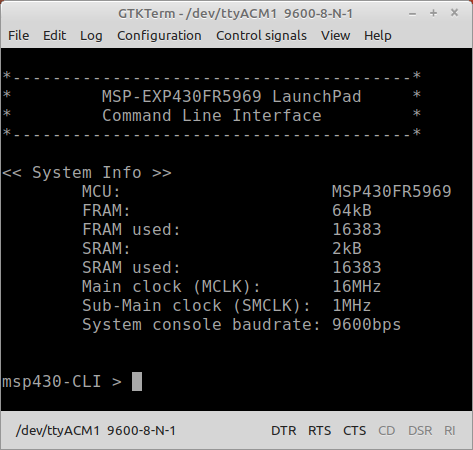
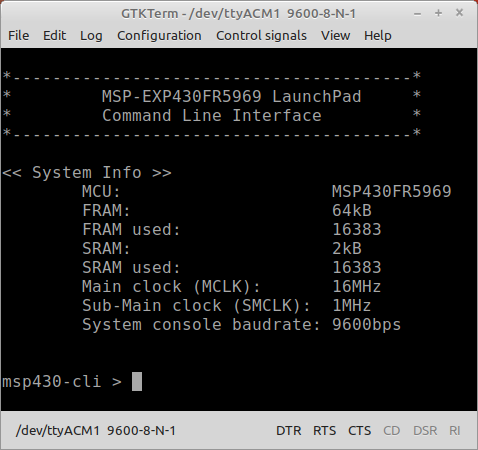
minor change

diff --git a/main/main.c b/main/main.c
@@ -118,7 +118,7 @@ int main(void)
                 }
             }
 
-            printf("\r\nmsp430-CLI > ");
+            printf("\r\nmsp430-cli > ");
 
             /* Reset receive buffer and flag*/
             memset(parameterString, '\0', parameterLength + 1);
@@ -171,7 +171,7 @@ static void startup_cli(void)
     printf("\tMain clock (MCLK):       16MHz\r\n");
     printf("\tSub-Main clock (SMCLK):  1MHz\r\n");
     printf("\tSystem console baudrate: 9600bps\r\n");
-    printf("\r\n\r\nmsp430-CLI > ");
+    printf("\r\n\r\nmsp430-cli > ");
 }
 
 /**
